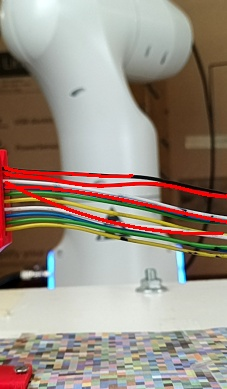
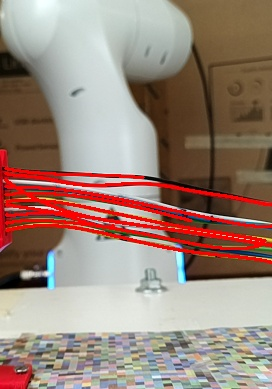
updates

diff --git a/src/TAU_supervisor.py b/src/TAU_supervisor.py
@@ -27,7 +27,7 @@ rospy.init_node('DLO_detection_node')
 
 class DLO_estimator():
 
-    def __init__(self, img_path, all_colors, color_order, con_points, cable_D, con_dim, cable_lengths, pixel_D, model, grasping_point_eval_mm=[0,0], grasp_area_mm=[0,0], corner_mold=[[0,0],[0,0]], mold_size = 0, segm_opt = 0, index_upper=0, analyzed_length=500, simplified=False):
+    def __init__(self, img_path, all_colors, color_order, con_points, cable_D, con_dim, cable_lengths, pixel_D, model, grasping_point_eval_mm=[0,0], grasp_area_mm=[0,0], corner_mold=[[0,0],[0,0]], mold_size = 0, segm_opt = 0, index_upper=0, analyzed_length=500, analyzed_grasp_length=0, simplified=False):
 
         global show_imgs
 
@@ -39,6 +39,7 @@ class DLO_estimator():
         self.img_name = img_path.split('/')[-1]
         self.index_upper = index_upper
         self.simplified = simplified
+        self.analyzed_grasp_length = analyzed_grasp_length
         img = cv.imread(img_path)
 
         if mold_size>0:
@@ -166,7 +167,7 @@ class DLO_estimator():
         cv.imwrite(save_img_path, self.lines_cables_bkg)
 
         if determine_GP:
-            grasp_point, success_GP = get_best_grasping_point(all_points_cables_dict, self.index_upper, self.mm_per_pixel, self.lines_cables_img)
+            grasp_point, success_GP = get_best_grasping_point(all_points_cables_dict, self.index_upper, self.mm_per_pixel, self.lines_cables_img, analyzed_grasp_length = (self.analyzed_grasp_length + self.corner_mold_top_resized[1]))
             if success_GP:
                 self.grasp_img = cv.rectangle(self.grasp_img, (grasp_point[0] - 3, grasp_point[1] - 3), (grasp_point[0] + 3, grasp_point[1] + 3), [0,255,0], 2)
                 save_img_name = "Grasp_point_" + self.img_name
@@ -209,7 +210,7 @@ def grasp_point_determination_srv_callback(req):
     desired_grasp_cables = list(desired_grasp_cables_tuple)
 
     total_time_init = time.time()
-    p = DLO_estimator(img_path=req.img_path, all_colors=WH_info[req.wh_id]['cable_colors'], color_order = WH_info[req.wh_id]['cables_color_order'], con_points=WH_info[req.wh_id]['con_corners'], cable_D=WH_info[req.wh_id]['cable_D'], con_dim=WH_info[req.wh_id]['con_dim'], cable_lengths=WH_info[req.wh_id]['cable_lengths'], model=DLO_model, corner_mold=WH_info[req.wh_id]['mold_corners'], mold_size=WH_info[req.wh_id]['mold_dim'], index_upper=desired_grasp_cables[0], pixel_D=req.pixel_D, analyzed_length=req.analyzed_length, segm_opt=2, simplified=req.simplified)
+    p = DLO_estimator(img_path=req.img_path, all_colors=WH_info[req.wh_id]['cable_colors'], color_order = WH_info[req.wh_id]['cables_color_order'], con_points=WH_info[req.wh_id]['con_corners'], cable_D=WH_info[req.wh_id]['cable_D'], con_dim=WH_info[req.wh_id]['con_dim'], cable_lengths=WH_info[req.wh_id]['cable_lengths'], model=DLO_model, corner_mold=WH_info[req.wh_id]['mold_corners'], mold_size=WH_info[req.wh_id]['mold_dim'], index_upper=desired_grasp_cables[0], pixel_D=req.pixel_D, analyzed_length=req.analyzed_length, analyzed_grasp_length=req.analyzed_grasp_length, segm_opt=2, simplified=req.simplified)
     if not show_imgs:
         all_points_cables, grasp_point_from_corner_x, grasp_point_from_corner_z, success = p.exec(req.forward, req.iteration, determine_GP = True)
         total_time = time.time() - total_time_init
@@ -279,7 +280,7 @@ if __name__ == "__main__": #Load the model and define some info for each WH in a
     green_cable2 = [36,110,38]
     red_cable = [53,49,181]
     black_cable = [10,10,10]#[57,54,71]
-    white_cable = [181,184,191]
+    white_cable = [239,238,254]
     brown_cable = [27,43,80]
     pink_cable = [134,133,179]
 
@@ -292,9 +293,14 @@ if __name__ == "__main__": #Load the model and define some info for each WH in a
     WH_info['1']['cable_lengths'] = [550, 550, 550, 550, 550, 550, 550, 550, 550, 550]
     WH_info['1']['con_dim'] = 27
     WH_info['1']['cable_D'] = 1.32
-    WH_info['1']['con_corners'] = [[640, 760], [435, 755]] #below,above [y,x].
-    WH_info['1']['mold_corners'] = [[417, 750], [663, 757]] #below,above [y,x]. These points are fixed as the image is always taken from the same position
-    WH_info['1']['mold_dim'] = 40
+    #WH_info['1']['con_corners'] = [[640, 760], [435, 755]] #below,above [y,x].
+    #WH_info['1']['mold_corners'] = [[417, 750], [663, 757]] #below,above [y,x]. These points are fixed as the image is always taken from the same position
+    #WH_info['1']['mold_dim'] = 40
+    # WH_info['1']['con_corners'] = [[550, 688], [333, 686]] #below,above [y,x]. 4
+    # WH_info['1']['mold_corners'] = [[294, 682], [550, 681]] #above,below [y,x]. 4
+    WH_info['1']['con_corners'] = [[557, 890], [345, 895]] #below,above [y,x]. 10
+    WH_info['1']['mold_corners'] = [[296, 891], [557, 884]] #above,below [y,x]. 10
+    WH_info['1']['mold_dim'] = 32
     
     WH_info['2'] = {}
     WH_info['2']['cable_colors'] = [yellow_cable, blue_cable, green_cable2, red_cable, black_cable, pink_cable, brown_cable, white_cable]
@@ -306,7 +312,7 @@ if __name__ == "__main__": #Load the model and define some info for each WH in a
     WH_info['2']['cable_D'] = 1.32
     #ToDo
     WH_info['2']['con_corners'] = [[0, 0], [0, 0]] #below,above [y,x]
-    WH_info['2']['mold_corners'] = [[0, 0], [0, 0]] #below,above [y,x]. These points are fixed as the image is always taken from the same position
+    WH_info['2']['mold_corners'] = [[0, 0], [0, 0]] #above,below [y,x]. These points are fixed as the image is always taken from the same position
     WH_info['2']['mold_dim'] = 0
 
     #Load model

diff --git a/src/oak_camera.py b/src/oak_camera.py
@@ -14,6 +14,7 @@ from sensor_msgs.msg import CompressedImage
 rospy.init_node('service_OAK_capture', anonymous=True)
 service_name = '/OAK/capture_img'
 image_pub = rospy.Publisher("/OAK/stream_compressed", CompressedImage)
+flip = True
 
 # Create pipeline
 pipeline = dai.Pipeline()
@@ -50,6 +51,7 @@ with dai.Device(pipeline) as device:
                 """
                 Service that captures an image
                 """
+                global flip
                 print("Saving img...")
                 #time.sleep(1)
                 resp = TriggerResponse()
@@ -65,7 +67,11 @@ with dai.Device(pipeline) as device:
                 img_name = "Image_cables_"+new_index+".jpg"
                 img_path = os.path.join(os.path.dirname(__file__), '../imgs/'+img_name)
                 videoIn = video.get()
-                cv2.imwrite(img_path, videoIn.getCvFrame())
+                if flip:
+                        image = cv2.flip(videoIn.getCvFrame(), 0)
+                else:
+                        image = videoIn.getCvFrame()
+                cv2.imwrite(img_path, image)
                 resp.success = True
                 resp.message = img_path
                 print("Done")
@@ -88,7 +94,10 @@ with dai.Device(pipeline) as device:
                         msg = CompressedImage()
                         msg.header.stamp = rospy.Time.now()
                         msg.format = "jpeg"
-                        msg.data = np.array(cv2.imencode('.jpg', videoIn.getCvFrame())[1]).tostring()
+                        if flip:
+                                msg.data = np.array(cv2.imencode('.jpg', cv2.flip(videoIn.getCvFrame(), 0))[1]).tostring()
+                        else:
+                                msg.data = np.array(cv2.imencode('.jpg', videoIn.getCvFrame())[1]).tostring()                       
                         image_pub.publish(msg)
 
                         if cv2.waitKey(1) == ord('q'):

diff --git a/src/get_pixel_coord.py b/src/get_pixel_coord.py
@@ -1,0 +1,63 @@
+#!/usr/bin/env python3
+
+# importing the module
+import cv2
+import os
+   
+# function to display the coordinates of
+# of the points clicked on the image 
+def click_event(event, x, y, flags, params):
+  
+    # checking for left mouse clicks
+    if event == cv2.EVENT_LBUTTONDOWN:
+  
+        # displaying the coordinates
+        # on the Shell
+        print(x, ' ', y)
+  
+        # displaying the coordinates
+        # on the image window
+        font = cv2.FONT_HERSHEY_SIMPLEX
+        cv2.putText(img, str(x) + ',' +
+                    str(y), (x,y), font,
+                    1, (255, 0, 0), 2)
+        cv2.imshow('image', img)
+  
+    # checking for right mouse clicks     
+    if event==cv2.EVENT_RBUTTONDOWN:
+  
+        # displaying the coordinates
+        # on the Shell
+        print(x, ' ', y)
+  
+        # displaying the coordinates
+        # on the image window
+        font = cv2.FONT_HERSHEY_SIMPLEX
+        b = img[y, x, 0]
+        g = img[y, x, 1]
+        r = img[y, x, 2]
+        cv2.putText(img, str(b) + ',' +
+                    str(g) + ',' + str(r),
+                    (x,y), font, 1,
+                    (255, 255, 0), 2)
+        cv2.imshow('image', img)
+  
+# driver function
+if __name__=="__main__":
+  
+    # reading the image
+    img_name = 'Image_cables_4.jpg'
+    img = cv2.imread(os.path.join(os.path.dirname(__file__), '../imgs/'+img_name), 1)
+  
+    # displaying the image
+    cv2.imshow('image', img)
+  
+    # setting mouse handler for the image
+    # and calling the click_event() function
+    cv2.setMouseCallback('image', click_event)
+  
+    # wait for a key to be pressed to exit
+    cv2.waitKey(0)
+  
+    # close the window
+    cv2.destroyAllWindows()

diff --git a/src/TAU_grasp_point_calculation.py b/src/TAU_grasp_point_calculation.py
@@ -1,4 +1,4 @@
-def get_best_grasping_point(all_cables_input, index_upper, dist_per_pixel, img):
+def get_best_grasping_point(all_cables_input, index_upper, dist_per_pixel, img, analyzed_grasp_length):
     """
     all_cables_input: list with the index of the cable and its points
     indes_upper: index of the lower upper cable (index 0 is the cable in the bottom)
@@ -88,7 +88,7 @@ def get_best_grasping_point(all_cables_input, index_upper, dist_per_pixel, img):
     lower_up_cable_dict = {}
     upper_down_cable_dict = {}
     min_dist_cable_dict = {}
-    for x in range(x_limits[0], x_limits[1]+1, 1): #Do it in all the length, not in these limits
+    for x in range(x_limits[0], min(x_limits[1]+1, int((analyzed_grasp_length/dist_per_pixel))+1), 1): #Do it in all the length, not in these limits
         lower_up_x = 0 #y axis goes down
         for cable_up_dict_i in cables_up_dict:
             if cable_up_dict_i[x] > lower_up_x:

diff --git a/src/TAU_segmentation_UNet.py b/src/TAU_segmentation_UNet.py
@@ -41,7 +41,7 @@ class TAUSegmentationUNet():
             self.mask_model_final = self.get_mask_model(copy.deepcopy(self.img), IMAGE_SIZE)
         
         #cv.imshow("unet filter3", self.mask_model_final)
-        cv.imwrite(os.path.join(os.path.dirname(__file__), '../imgs/filter_image.jpg'), self.mask_model_final)
+        cv.imwrite(os.path.join(os.path.dirname(__file__), '../imgs/filter_image_0.jpg'), self.mask_model_final)
 
 
     def get_mask_model(self, image_model, IMAGE_SIZE):
